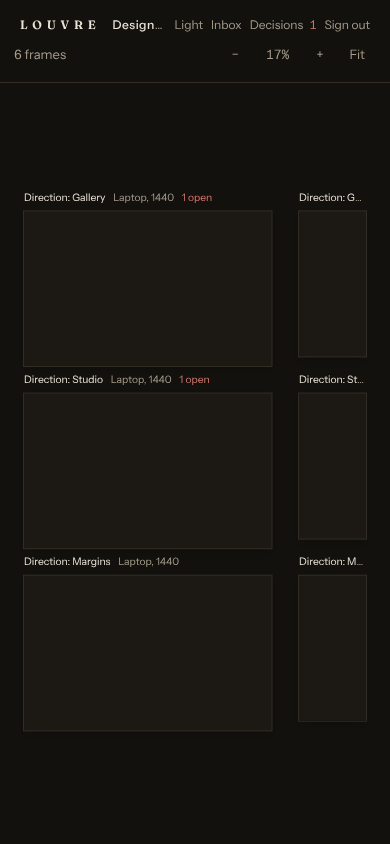
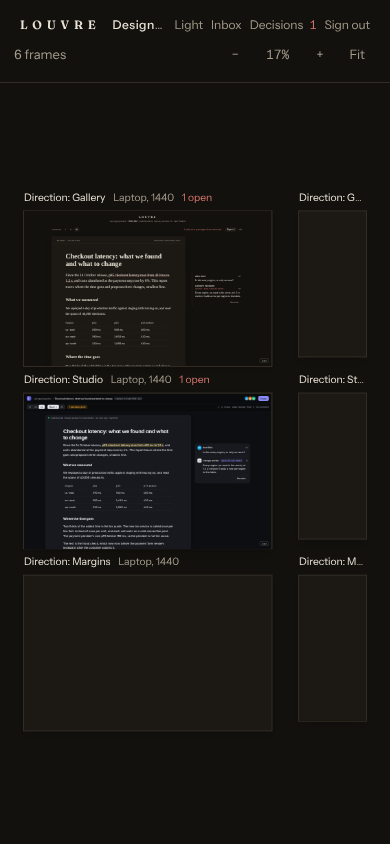
fix(ui): on a phone, draw the two pages a board shows the most of at any zoom (#47)

diff --git a/ui/src/lib/canvas.ts b/ui/src/lib/canvas.ts
@@ -16,12 +16,10 @@ export const ZOOM_STEP = 1.25
 /** The longest a phone's screen is on its shorter side, in screen pixels, as ui/DESIGN.md has it. */
 export const PHONE = 600
 /**
- * How many frames' pages a phone draws live at most, and the least zoom it draws one at: six pages at once are more
- * than its browser has the memory for, and one smaller than this cannot be read.
+ * How many frames' pages a phone draws live at most, at any zoom: six pages at once are more than its browser has the
+ * memory for. Two zoomed out cost less than two zoomed in, as each is drawn at the zoom times the screen's density.
  */
 export const LIVE_COUNT = 2
-/** See LIVE_COUNT. */
-export const LIVE_SCALE = 0.25
 
 /** How the canvas is drawn on the screen: its offset, and its scale. */
 export interface View {
@@ -89,22 +87,22 @@ export function panBy(view: View, dx: number, dy: number): View {
 }
 
 /**
- * The boxes whose pages are drawn live at a view, on a screen `width` by `height`: on a phone's, only those on the
- * screen at LIVE_SCALE or more, LIVE_COUNT at most, the most of each shown first; on any other, every one.
+ * The boxes whose pages are drawn live at a view, on a screen `width` by `height`: on a phone's, the LIVE_COUNT the
+ * screen shows the most of, the most shown first and the board's order between equals; on any other, every one.
  */
 export function live<T extends Box>(boxes: readonly T[], view: View, width: number, height: number): T[] {
     if (Math.min(width, height) > PHONE) {
         return [...boxes]
     }
-    if (view.scale < LIVE_SCALE) {
-        return []
-    }
-    return boxes
-        .map((box) => ({ box, shown: shownArea(box, view, width, height) }))
-        .filter(({ shown }) => shown > 0)
-        .toSorted((a, b) => b.shown - a.shown)
-        .slice(0, LIVE_COUNT)
-        .map(({ box }) => box)
+    return (
+        boxes
+            // Rounded, so frames the screen shows alike keep the board's order rather than a rounding error's.
+            .map((box) => ({ box, shown: Math.round(shownArea(box, view, width, height)) }))
+            .filter(({ shown }) => shown > 0)
+            .toSorted((a, b) => b.shown - a.shown)
+            .slice(0, LIVE_COUNT)
+            .map(({ box }) => box)
+    )
 }
 
 /** How much a wheel's turn zooms: in for a turn up, out for one down; a trackpad's pinch, with ctrl, more finely. */

diff --git a/ui/src/lib/canvas.test.ts b/ui/src/lib/canvas.test.ts
@@ -86,8 +86,8 @@ describe('live', () => {
         expect(ids(live(frames, { x: 0, y: 0, scale: 0.2 }, 1440, 780))).toEqual(ids(frames))
     })
 
-    it('draws no page on a phone with the board fitted to it, too small to read', () => {
-        expect(live(frames, fit(bounds(frames, 80), 390, 700, 24), 390, 700)).toEqual([])
+    it('draws two pages on a phone with the board fitted to it: of the laptops it shows whole, the first two', () => {
+        expect(ids(live(frames, fit(bounds(frames, 80), 390, 700, 24), 390, 700))).toEqual(['laptop-0', 'laptop-1'])
     })
 
     it('draws two pages at most on a phone, those it shows the most of first', () => {
@@ -98,7 +98,7 @@ describe('live', () => {
     })
 
     it('counts a phone on its side as a phone', () => {
-        expect(live(frames, { x: 0, y: 0, scale: 0.1 }, 932, 330)).toEqual([])
+        expect(live(frames, { x: 0, y: 0, scale: 0.1 }, 932, 330)).toHaveLength(2)
     })
 
     it('draws no page that is off the screen', () => {

diff --git a/tests/louvre/web/test_flows.py b/tests/louvre/web/test_flows.py
@@ -545,10 +545,11 @@ def test_on_a_tablet_a_pinch_puts_the_pages_away_until_it_stops_without_reloadin
         context.close()
 
 
-def test_on_a_phone_a_board_draws_a_page_only_zoomed_in_to_it_and_two_at_most(browser: Browser, live_app: str) -> None:
-    """Fitted to a phone, a board draws its frames' sheets alone; zoomed in, the pages it shows most of, two at most.
+def test_on_a_phone_a_board_draws_the_two_pages_it_shows_most_of(browser: Browser, live_app: str) -> None:
+    """On a phone, fitted or zoomed in, a board draws the pages it shows the most of, two at most.
 
-    Six pages at once are more than a phone's browser has the memory for: it crashed as the board loaded.
+    Six pages at once are more than a phone's browser has the memory for: it crashed as the board loaded. Drawing none
+    until the reader zoomed in left a fitted board blank.
     """
     context = browser.new_context(
         viewport={"width": 390, "height": 844},
@@ -560,15 +561,16 @@ def test_on_a_phone_a_board_draws_a_page_only_zoomed_in_to_it_and_two_at_most(br
     try:
         page = context.new_page()
         board(page)
-        expect(page.locator(".board-frame iframe")).to_have_count(0)
+        expect(page.locator(".board-frame[data-live] iframe")).to_have_count(LIVE_COUNT)
 
         for _ in range(3):
             page.get_by_role("button", name="Zoom in").tap()
+        expect(page.locator(".world[data-zooming]")).to_have_count(0)
         expect(page.locator(".board-frame[data-live] iframe").first).to_be_visible()
         assert 1 <= page.locator(".board-frame iframe").count() <= LIVE_COUNT
 
         page.get_by_role("button", name="Fit to screen").tap()
-        expect(page.locator(".board-frame iframe")).to_have_count(0)
+        expect(page.locator(".board-frame[data-live] iframe")).to_have_count(LIVE_COUNT)
     finally:
         context.close()
 

diff --git a/ui/DESIGN.md b/ui/DESIGN.md
@@ -132,10 +132,9 @@ but the canvas, to the screen's edges, under one hairline.
   `paper` with the frame's shadow. Above it, a label in Instrument Sans: the artifact's title in `ink`, the frame's
   size in `muted`, its open threads in `accent`. Labels and outlines keep one size on the screen at any zoom, and a
   label never runs past its frame's width: what does not fit ends in an ellipsis.
-- **On a phone** (600 px and below on the screen's shorter side), a frame's page is drawn only while the frame is on
-  the screen at 25% or more, and two pages at most, those the screen shows the most of: six pages at once are more than
-  a phone has the memory for. Fitted to a phone, the board shows its frames' sheets and labels, and a frame's page
-  fills in as the reader zooms into it.
+- **On a phone** (600 px and below on the screen's shorter side), two frames' pages are drawn at most, at any zoom:
+  those the screen shows the most of. Six pages at once are more than a phone has the memory for. The rest show their
+  sheets and labels, and a frame's page fills in as the reader pans or zooms to it.
 - **Moving.** Drag to pan, by pointer or by touch; pinch, the wheel, or the toolbar's zoom control (`−`, the zoom in
   percent, `+`, Fit) to zoom, about the cursor or the pinch's middle, from 5% to 100%: a frame's page at its own size,
   as a reader opens the frame to read it closer. The board opens fitted to the screen, and fits again on a resize until
